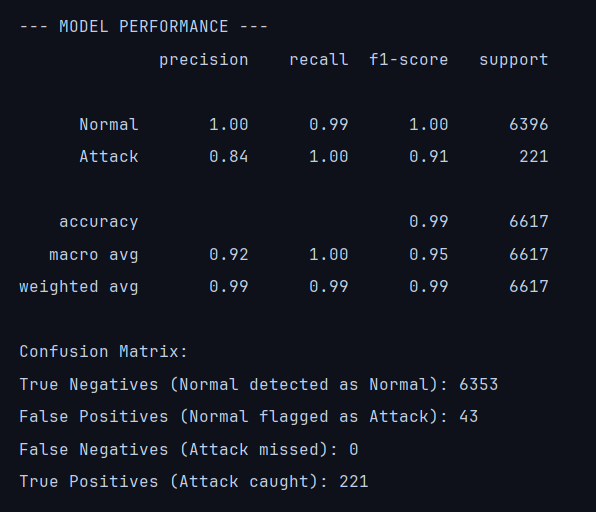
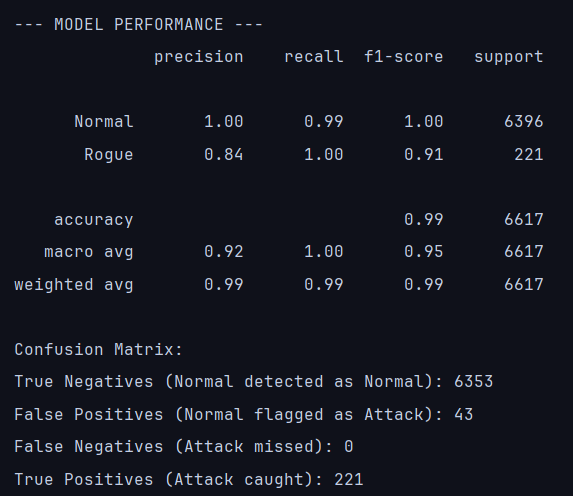
Create confusion_matrix

diff --git a/confusion_matrix.py b/confusion_matrix.py
@@ -1,3 +1,9 @@
 from train_isolation_forest import cm
 import matplotlib.pyplot as plt
 import seaborn as sns
+plt.style.use('fivethirtyeight')
+plt.figure(figsize=(10, 8))
+sns.heatmap(cm, annot=True, fmt='d', cmap='Blues',xticklabels=['Normal', 'Attack'], yticklabels=['Normal', 'Attack'])
+plt.xlabel('Predicted Label')
+plt.ylabel('True Label')
+plt.show()
